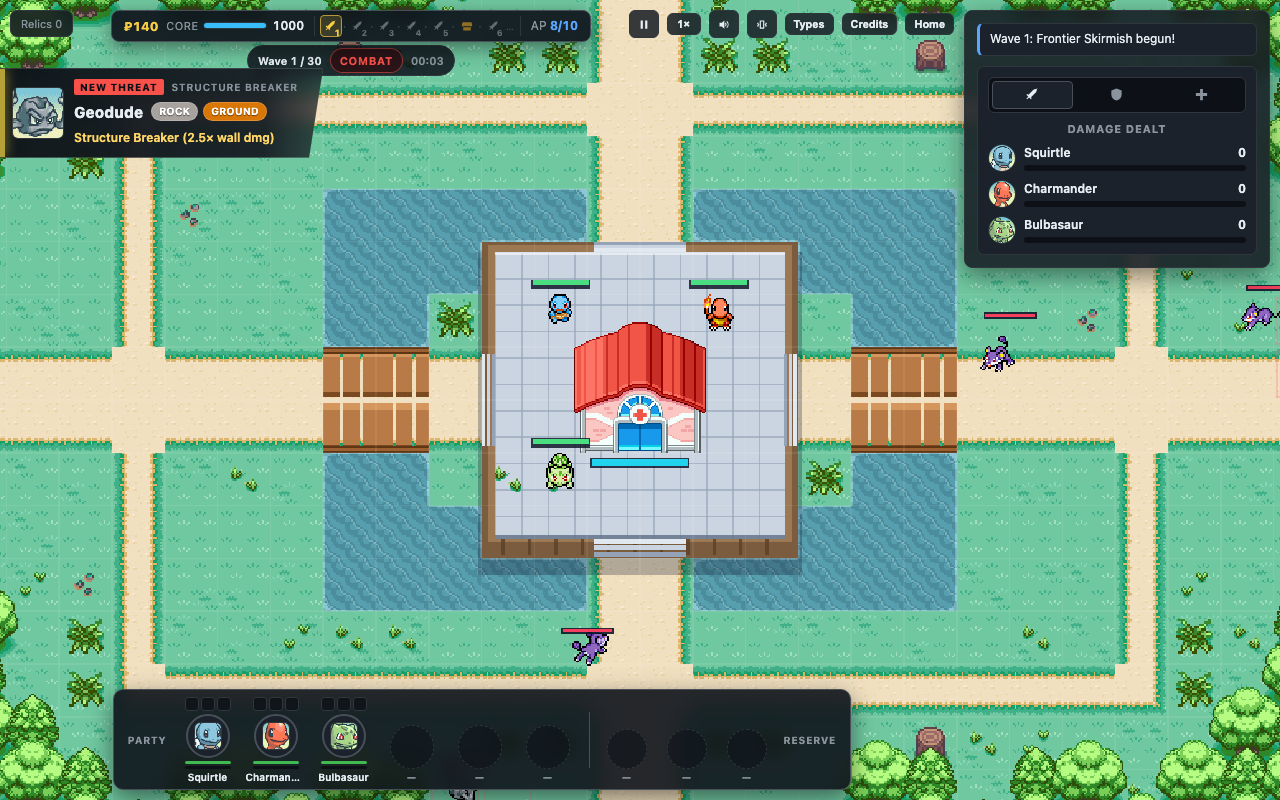
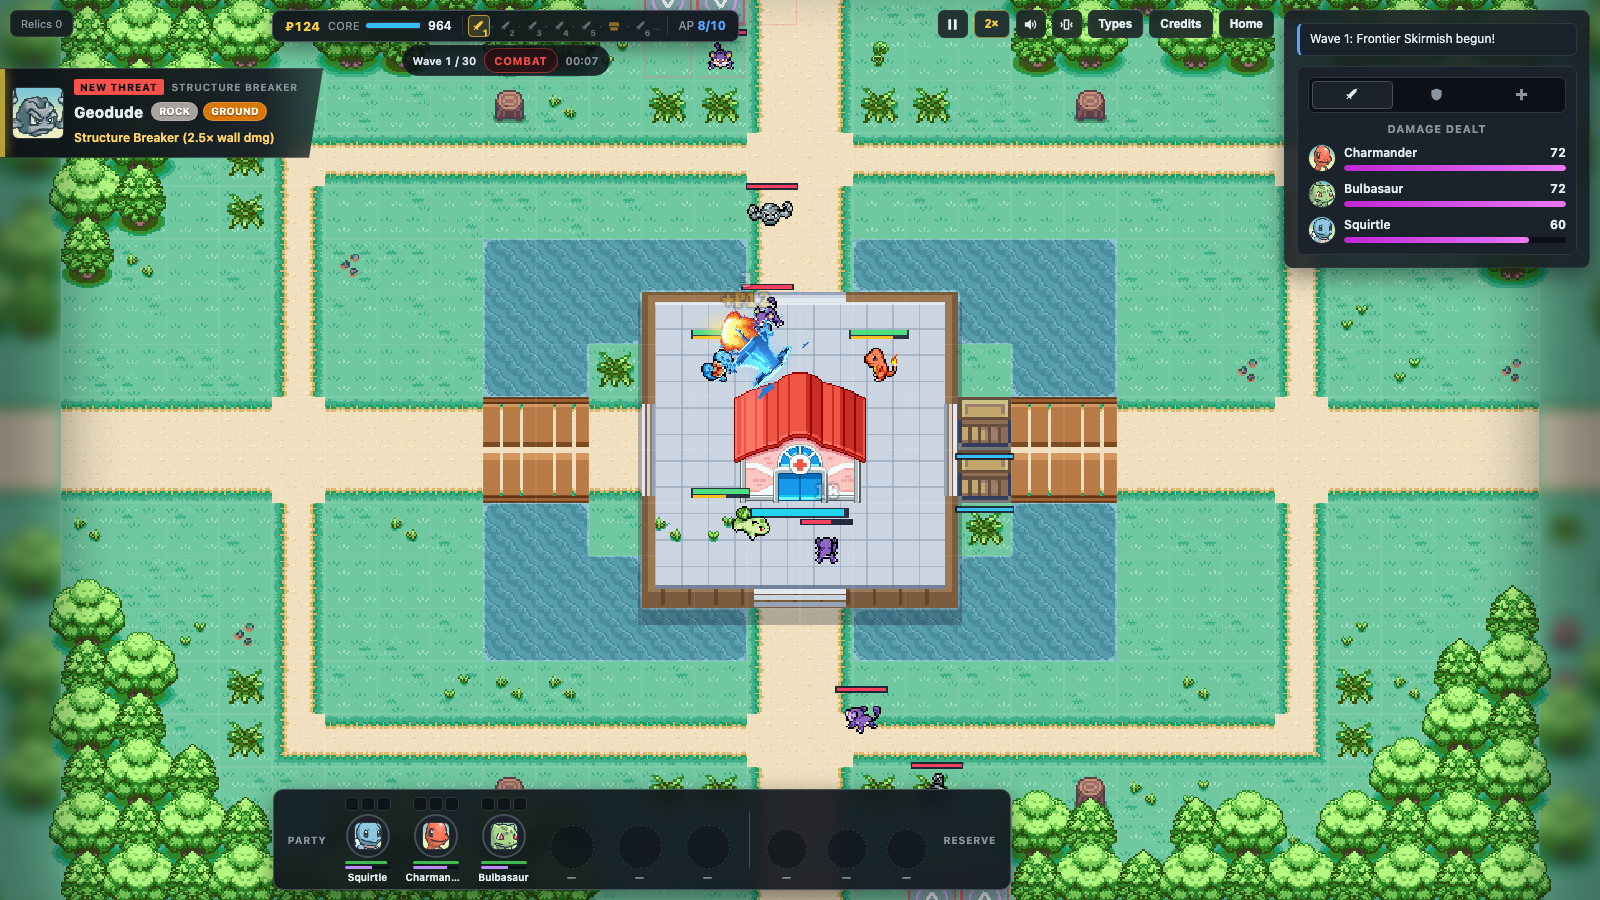
docs: update README screenshots at 1600x900 across game states

diff --git a/README.md b/README.md
@@ -24,9 +24,17 @@ Instead of fixed enemy lanes, wild Pokémon dynamically pathfind across a `28×1
 
 ## Screenshots
 
-|     Prep Phase & Live Path Previews      |         Wave Combat & Threat Alerts          |
+|                Home Screen                |                Starter Draft                 |
+| :---------------------------------------: | :------------------------------------------: |
+| ![Home Screen](docs/screenshots/home.png) | ![Starter Draft](docs/screenshots/draft.png) |
+
+|     Prep Phase & Live Path Previews      |            Wave Combat & Live DPS            |
 | :--------------------------------------: | :------------------------------------------: |
 | ![Prep Phase](docs/screenshots/prep.png) | ![Combat Phase](docs/screenshots/combat.png) |
+
+|              Post-Wave Rewards               |       Pokédex & Potential Upgrades       |
+| :------------------------------------------: | :--------------------------------------: |
+| ![Reward Modal](docs/screenshots/reward.png) | ![Pokédex](docs/screenshots/pokedex.png) |
 
 ---
 
